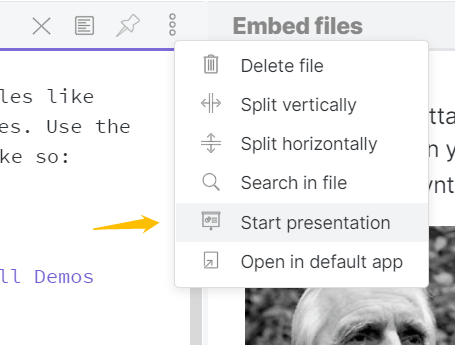
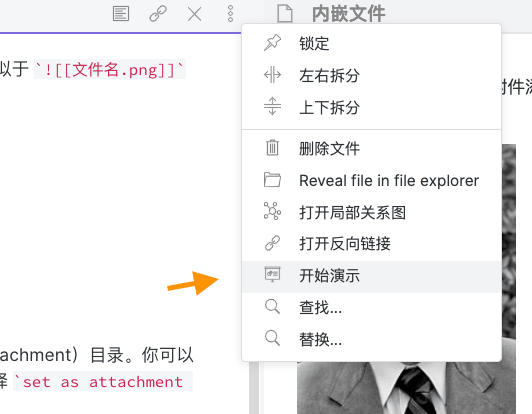
Update Attachments and more
- translate all attachments to zh
- update attachments to the latest version(0.8.9) interface
- improve details

diff --git a/zh/How to/基本笔记记录.md b/zh/How to/基本笔记记录.md
@@ -2,7 +2,7 @@
 
 如果有笔记链接到当前在看的笔记时，他们将会被显示在页面右方的 **反向链接面板** 之中（可以在 [[反向链接|这里]] 获取更多关于反向链接的内容）。
 
-任何时候，如果你发现你在软件中迷失了方向，或者单纯想要探索 Obsidian 还能做什么，按下 `Ctrl/Cmd-P` 将可以轻松唤起一个控制面板（Command Palette）。你可以在里边儿输入命令，比如 "Navigate back"，然后你将看到有一个列相关联的搜索结果，并且后面还将显示各自对应的快捷键（如果有的话）。
+任何时候，如果你发现你在软件中迷失了方向，或者单纯想要探索 Obsidian 还能做什么，按下 `Ctrl/Cmd-P` 将可以轻松唤起一个命令面板。你可以在里边儿输入命令，比如 "返回"，然后你将看到有一个列相关联的搜索结果，并且后面还将显示各自对应的快捷键（如果有的话）。
 
 本质上，Obsidian 是一个本地 markdown 文件工具。如果你对于 markdown 不熟悉的话，那么可以把它理解为一个拥有各种强大格式的纯文本（阅读更堵相关内容，可以参照 [[格式化你的笔记|Markdown]] ）。总而言之，如果你是想要将 Obsidian 作为一个日常的笔记工具，那么 Markdown 将能够帮上大忙。
 
@@ -10,11 +10,11 @@
 
 在这里试试吧（确保你当前处于编辑模式下）：
 
-你会发现文字跟中括号都变成了蓝色的，那意味着它被正确地识别为链接（Link）。切换到预览模式（Preview）并点击该链接（或者在编辑模式下 `Ctrl/Cmd-单击` ），然后你将会看到一个空白的笔记。写下任意的文本之后，按下 `Ctrl/Cmd-alt-左箭头` ，或者在右边的 **反向链接** 中点击这篇笔记的名称（[[基本笔记记录]]），即可返回到当前页面。阅读更多关于导航链接的内容，参照 [[内链]]。
+你会发现文字跟中括号都变成了蓝色的，那意味着它被正确地识别为链接。切换到预览模式并点击该链接（或者在编辑模式下 `Ctrl/Cmd-单击` ），然后你将会看到一个空白的笔记。写下任意的文本之后，按下 `Ctrl/Cmd-alt-左箭头` ，或者在右边的 **反向链接** 中点击这篇笔记的名称（[[基本笔记记录]]），即可返回到当前页面。阅读更多关于导航链接的内容，参照 [[内链]]。
 
 ---
 
-无论何时，你的新笔记都会自动的出现在左边的文件管理器（File explorer）中。当你点击一个通向另一个文件的链接时，如果该文件不存在，那么 Obsidian 将会自动地创建这个文件。这意味着你可以顺着 `[[思路]]` 的指引 `[[随心所欲地落笔]]`，而后再回过头来将具体内容补齐。这使得 Obsidian 成为一个思路友好的极佳笔记应用，也免去了你需要来回创建笔记的烦恼。当你发现你的笔记标题需要修改时，只需要在顶部的标题栏更改，Obsidian 将会自动地同步到所有的笔记链接之中。
+无论何时，你的新笔记都会自动的出现在左边的文件管理器中。当你点击一个通向另一个文件的链接时，如果该文件不存在，那么 Obsidian 将会自动地创建这个文件。这意味着你可以顺着 `[[思路]]` 的指引 `[[随心所欲地落笔]]`，而后再回过头来将具体内容补齐。这使得 Obsidian 成为一个思路友好的极佳笔记应用，也免去了你需要来回创建笔记的烦恼。当你发现你的笔记标题需要修改时，只需要在顶部的标题栏更改，Obsidian 将会自动地同步到所有的笔记链接之中。
 
 而依托下面的功能，则可以搭建出你想要的任意笔记结构。有些人喜欢先做一个 `目录大纲` 来确定笔记的大类。你也可以使用 #标签 来创建分类（如果你点击该标签，将会显示所有包含该 #标签 的笔记）。实际上，你所建造的笔记结构，应该更加贴合个人习惯，而不是贴合工作需求。我们建议你先开始记录，然后再考虑笔记结构的问题。Obsidian 已经足够灵活，这给了我们广阔的后期更改空间，也使得后期调整变得很容易。
 

diff --git a/zh/How to/内嵌文件.md b/zh/How to/内嵌文件.md
@@ -8,7 +8,7 @@
 
 ![[支持格式]]
 
-如果你拖进来一张图片，它将会被复制到你的默认附件（attachment）目录。你可以通过在文件管理器（File explorer）中的目录上右键，并选择 `set as attachment folder` 配置你的默认附件目录。
+如果你拖进来一张图片，它将会被复制到你的默认附件目录。你可以通过在文件管理器中的目录上右键，并选择 `将其设置为附件文件夹` 配置你的默认附件目录。
 
 --- 
 
@@ -18,8 +18,8 @@
 
 1. `[Image](link.png)` 可以链接到图片，但只有 `![Image](link.png)` 才能够真正显示。
 
-2. 内链（Internal link）的标记语法基于以下假定：`[[My page]]` 是 `[My page](My page)` 的一个缩写（或者是说便捷写法）
+2. 内链的标记语法基于以下假定：`[[My page]]` 是 `[My page](My page)` 的一个缩写（或者是说便捷写法）
 
-将这二者集合起来，我们便可以得到第三个形式：`![[My page]]` 应该等效于 `![My page](My page)`，根据图片的语法惯例，当标题（中括号里面的部分）和链接（link，小括号里面的部分）相同时，这种形式应该可以正常显示。
+将这二者集合起来，我们便可以得到第三个形式：`![[My page]]` 应该等效于 `![My page](My page)`，根据图片的语法惯例，当标题（中括号里面的部分）和链接（小括号里面的部分）相同时，这种形式应该可以正常显示。
 
 同样的思路还有很多其他的实现方式，举个例子，Roam Research 使用的样式是 `{{embed: ((NODE_ID))}}`。我们也同样考虑过使用类似于 `((Page name))` 的标记语法，但我们认为 `![[Page name]]` 的形式能够更好地保持一致性，也更加友好，并且能为其他的符号留下象征意义的空间。

diff --git a/zh/插件/自定义主题.md b/zh/插件/自定义主题.md
@@ -1,6 +1,6 @@
 当该功能启用，Obsidian 将会自动在你的库根目录中搜索 `obsidian.css` 文件，若文件存在，则软件将会按照该文件定义的外观进行显示。
 
-Obsidian 组织已经提供了一系列的主题，其中的某些，已经成为了软件的标志。如果定制样式功能启用，则设置中将会多出一个 `Community Themes` 的选项。点击下方的`Use` 按钮即可应用该主题。在 Community Themes 标签页的上方，有一个主题模式的切换按钮，可以自主选择亮色模式还是暗色模式。
+Obsidian 组织已经提供了一系列的主题，其中的某些，已经成为了软件的标志。如果自定义主题功能启用，则设置中将会多出一个 `社区主题` 的选项。点击下方的`使用` 按钮即可应用该主题。在基本主题的右方，有一个主题模式的切换按钮，可以自主选择明亮主题还是黑暗主题。
 
-如果你正在构建或者修改你的自定义样式，你可以使用 `Ctrl/Cmd+Shfit+I` 打开开发者工具来获取你需要修改的元素的信息。任何 `obsidain.css` 文件的修改都将被自动检测并且应用。你不需要重启app。请注意，从 Community Themes 中应用一个主题将会覆盖你的 `obsidian.css` 文件，所以如果你想要保留样式文件的话，确保提前移动或者重命名该文件。
+如果你正在构建或者修改你的自定义样式，你可以使用 `Ctrl/Cmd+Shfit+I` 打开开发者工具来获取你需要修改的元素的信息。任何 `obsidain.css` 文件的修改都将被自动检测并且应用。你不需要重启app。请注意，从社区主题中应用一个主题将会覆盖你的 `obsidian.css` 文件，所以如果你想要保留样式文件的话，确保提前移动或者重命名该文件。
 

diff --git a/zh/高级用法/数据存储方法.md b/zh/高级用法/数据存储方法.md
@@ -2,7 +2,7 @@
 
 然而，有一些软件数据并没有办法使用 markdown 格式进行存储。对于这些文件，Obsidian 在所有库的根目录都创建了一个 `.obsidian` 文件来进行存放。其中包含了你的设置，包括自定义快捷键以及启用的插件。在大多数系统，以 `.` 开头的文件都是不可见的，所以你很可能看不到他们除非你专门去找。如果你删除了这个目录，你的数据都不会丢，但你的自定义配置将会遗失。当你再次在 Obsidian 中打开这个库时，这些文件将会重新被创建。如果你正在使用 `git` 的话，最好将这些文件加入到 `ignore` 目录，由于缓存文件会经常改动，你的commit 列表将可能非常杂乱，但除此之外没有其他问题。
 
-如果你使用定制样式（custom css），Obsidian 会在库的根目录创建一个 `obsidian.css` 的文件。获取更多关于内容，参见 [[自定义主题]]。
+如果你使用自定义主题，Obsidian 会在库的根目录创建一个 `obsidian.css` 的文件。获取更多关于内容，参见 [[自定义主题]]。
 
 Obsidian 同样存储了一些文件在系统目录中。这些目录的路径取决于不同的系统；在 Mac 上是 `/Users/yourusername/Library/Application Support/obsidian`，在 Windows 上是 `%APPDATA%\Obsidian\` 跟 `$XDG_CONFIG_HOME/Obsidian/` ，在 Linux 上是`~/.config/Obsidian/`。所以，我们建议不要在以上目录创建库。
 

diff --git a/zh/插件/命令面板.md b/zh/插件/命令面板.md
@@ -1,7 +1,7 @@
 控制面板是一个免除记命令烦恼的好功能，并且这个功能是默认开启的。按下`Ctrl/Cmd+P`即可激活控制面板，输入对应的命令首字母即可快速查看对应命令（并启动）。如果这个命令有对应的快捷键，它将会在对应条目的右方显示。
 
-如果需要修改打开控制面板的快捷键，可以在 Settings -> Keymap 中Command Palette条目的右方，点击 `*` 图标然后按下新的快捷键即可。
+如果需要修改打开控制面板的快捷键，可以在 设置 -> 快捷键 中 打开命令面板 条目的右方，点击 `*` 图标然后按下新的快捷键即可。
 
-## Tips
+## 使用提示
 - 不要一口气输入一整条命令，尝试着输入命令的前几个字母，并使用方向键跟回车键来选择命令。
-- 控制面板支持模糊搜索功能，只需要输入命令的前几个字母，或者命令单词首字母即可匹配到对应的命令。比如，你可以使用 `trm` 来搜索 `Toggle read mode` 命令（切换到阅读模式）
+- 控制面板支持模糊搜索功能，只需要输入命令的前几个字母，或者命令单词首字母即可匹配到对应的命令。比如，你可以使用 `切预模` 来搜索 `切换编辑/预览模式` 命令（切换到阅读模式）

diff --git a/zh/How to/开始一篇新笔记.md b/zh/How to/开始一篇新笔记.md
@@ -1,6 +1,6 @@
 笔记可以有多种方式来新建，你可以从以下不同方式中选择一种：
 
-1. **文件基准思路**。如果你需要新建一篇笔记，你可以直接在 [[文件管理器]] 创建，或者使用快捷键 `Ctrl/Cmd+N`。你同样可以按下`Ctrl/Cmd+P`调出控制面板，输入‘new’，并选择 Create new note
+1. **文件基准思路**。如果你需要新建一篇笔记，你可以直接在 [[文件管理器]] 创建，或者使用快捷键 `Ctrl/Cmd+N`。你同样可以按下`Ctrl/Cmd+P`调出控制面板，输入‘新建’，并选择 新建笔记
 2. **链接优先思路**。如果你追求更自由地写作方式，也可以先使用 [[内链]] 来链接到对应名称到笔记，并且这不要求该笔记事先存在。如果需要新建该笔记，只需要在链接名称上单击，Obsidian将自动为你在本库中新建它。
 
 ![[Pasted image 3.png]]
@@ -11,7 +11,7 @@
 
 ![[Pasted image 4.png]]
 
-你也可以使用文件管理器（File explorer）顶部的按钮来创建笔记或者文件夹。
+你也可以使用文件管理器顶部的按钮来创建笔记或者文件夹。
 
 每当你停止输入两秒，或者关闭一个窗口，Obsidian 都会自动进行保存。你也可以按下 `Ctrl/Cmd+S` 来手动保存。
 

diff --git a/zh/How to/内链.md b/zh/How to/内链.md
@@ -1,10 +1,10 @@
-Internal Links 内链作为 Obsidian 的骨架，可以让你在不同的笔记直接相互跳转。
+内链作为 Obsidian 的骨架，可以让你在不同的笔记直接相互跳转。
 
 需要创造一个内链，只需要输入 `[[` ，并从弹出的列表里面选择自己想要链接的笔记本即可。（上下箭头选择，回车键确认）
 
 实际使用中，也可以定位到其他笔记本的某一段，只需要在`[[` 后面输入 `#` 选择第一级标题，根据层级的不同可以输入多个`#`。
 
-如果想要让内链显示的内容与其实际的文件名不同，只需要使用竖线（`shift+|`）即可。举个例子：[[另一个页面的标题|自定义的预览页面名称！]] 自定义的预览页面名称！]] 可以跟链接标题一起使用，组合成 [[折叠#举个例子|举个折叠的例子]]
+如果想要让内链显示的内容与其实际的文件名不同，只需要使用竖线（`shift+|`）即可。举个例子：[[另一个页面的标题|自定义的预览页面名称！]] 可以跟链接标题一起使用，组合成 [[折叠#举个例子|举个折叠的例子]]
 
 ## 跳转链接
 - 在预览模式下，只需要点击即可跳转链接

diff --git a/zh/插件/日记.md b/zh/插件/日记.md
@@ -1,6 +1,6 @@
 日记功能将会为每一个新建的笔记命名为当天的日期。如果该名字已经存在，将自动打开对应的笔记。这是一个写每日日志、待办事项、某天所写的所有笔记链接列表的强力功能。
 
-日记的默认的日期样式与默认目录，可以在 Settings => Plugins 下的 Daily notes 选项卡进行设置。默认的日期格式为 “YYYY-MM-DD”（ISO 样式）。这个样式意味着日记除了可以按照字母表排序外，也可以按照时间顺序进行排序。
+日记的默认的日期样式与默认目录，可以在 设置 => 插件 下的 日记 选项卡进行设置。默认的日期格式为 “YYYY-MM-DD”（ISO 样式）。这个样式意味着日记除了可以按照字母表排序外，也可以按照时间顺序进行排序。
 
 你也可以自定义一个日记模板。这个文件将会在你创建日记时自动复制到你的日记文件中，对于经常给日记打标签或者链接的人而言，这将是一个非常好的功能。
 

diff --git a/zh/Attachments/幻灯片示例.md b/zh/Attachments/幻灯片示例.md
@@ -1,0 +1,39 @@
+## Obsidian 幻灯片示例
+
+如果要展示幻灯片，你必须先启用幻灯片插件。
+你可以在左边栏的设置中找到它。
+
+---
+
+## Obsidian 的目标
+
+- 长期稳定
+- 可演进知识网络
+- 个性化
+
+---
+
+## 长期稳定
+
+- 文件保存在你的本地磁盘中
+- 纯文本格式，而非私有格式
+- 使用 Markdown 以获得最大的可迁移性
+  - 可以被其他的编辑器打开
+
+---
+
+## 可演进知识网络
+
+- [[内链]]
+- 链接自动补全
+- 查看当前文件的反向链接与提及
+- 关系图谱
+
+---
+
+## 个性化
+
+- 我们并不迷信一个单一产品能够适合所有人
+- Obsidian 是模块化的
+    - 你可以根据实际需求启用或者关闭任意插件
+    - 在v1.0.0之后我们将开放第三方插件API

diff --git a/zh/插件/插件列表.md b/zh/插件/插件列表.md
@@ -1,4 +1,4 @@
-Obsidian 最强大的功能之一，就是它能够通过添加不同的插件（plugin），来为软件增加新的功能。目前已经有一些插件可以开始使用，还有一大部分仍在开发之中。因而，你也可以自己动手，做一个属于你的插件。
+Obsidian 最强大的功能之一，就是它能够通过添加不同的插件，来为软件增加新的功能。目前已经有一些插件可以开始使用，还有一大部分仍在开发之中。因而，你也可以自己动手，做一个属于你的插件。
 
 插件可以通过左下角的 "设置" 按钮来管理。其中有一些有他们自己独有的设置项，当他们处于活跃状态时，你可以在设置的最下方的 插件 项下对他们进行设置。
 

diff --git a/zh/Obsidian.md b/zh/Obsidian.md
@@ -47,7 +47,7 @@ Obsidian 是一个基于 Markdown 进行记录的知识库软件。
  - 如果你进行工作笔记，[[幻灯片]] 和 [[反向链接]]或许能助你一臂之力 。
  - 如果你是一个科研工作者，[[关系图谱]]和[[字数统计]] 将是你必不可少的利器。
 
-我们不希望插件（plugin）成为解决难题的万金油，但它确实可以简化个性化的过程，而不必面对冗杂的界面与功能。
+我们不希望插件成为解决难题的万金油，但它确实可以简化个性化的过程，而不必面对冗杂的界面与功能。
 
 我们支持了[[自定义主题]] 并且准备在v1.0.0之后开放一个插件的API，来使得软件在不增添基础功能的情况下，可以做到更强大。
 

diff --git a/zh/How to/快捷键.md b/zh/How to/快捷键.md
@@ -1,6 +1,6 @@
 如果你的 [[命令面板]] 功能是开启的状态，那么你可以直接使用 `Ctrl/Cmd+P` 来打开控制面板，里面将会有你当前可用的所有命令以及他们的快捷键。
 
-大多数的键盘快捷键是可以自定义的，你可以在 Settings => Hotkeys 里面更改。
+大多数的键盘快捷键是可以自定义的，你可以在 设置 => 快捷键 里面更改。
 
 默认键盘快捷键列表如下：
 
@@ -38,8 +38,8 @@
 
 功能 |   | 快捷键
 ----- | - | ------------
-加粗 |   | `Ctrl/Cmd` B
-斜体 |   | `Ctrl/Cmd` I
-插入链接 |   | `Ctrl/Cmd` K
+加粗 |   | `Ctrl/Cmd B` 
+斜体 |   | `Ctrl/Cmd I` 
+插入链接 |   | `Ctrl/Cmd K`
 缩进 |   | `Ctrl/Cmd ]`
 取消缩进 |   | `Ctrl/Cmd [`
